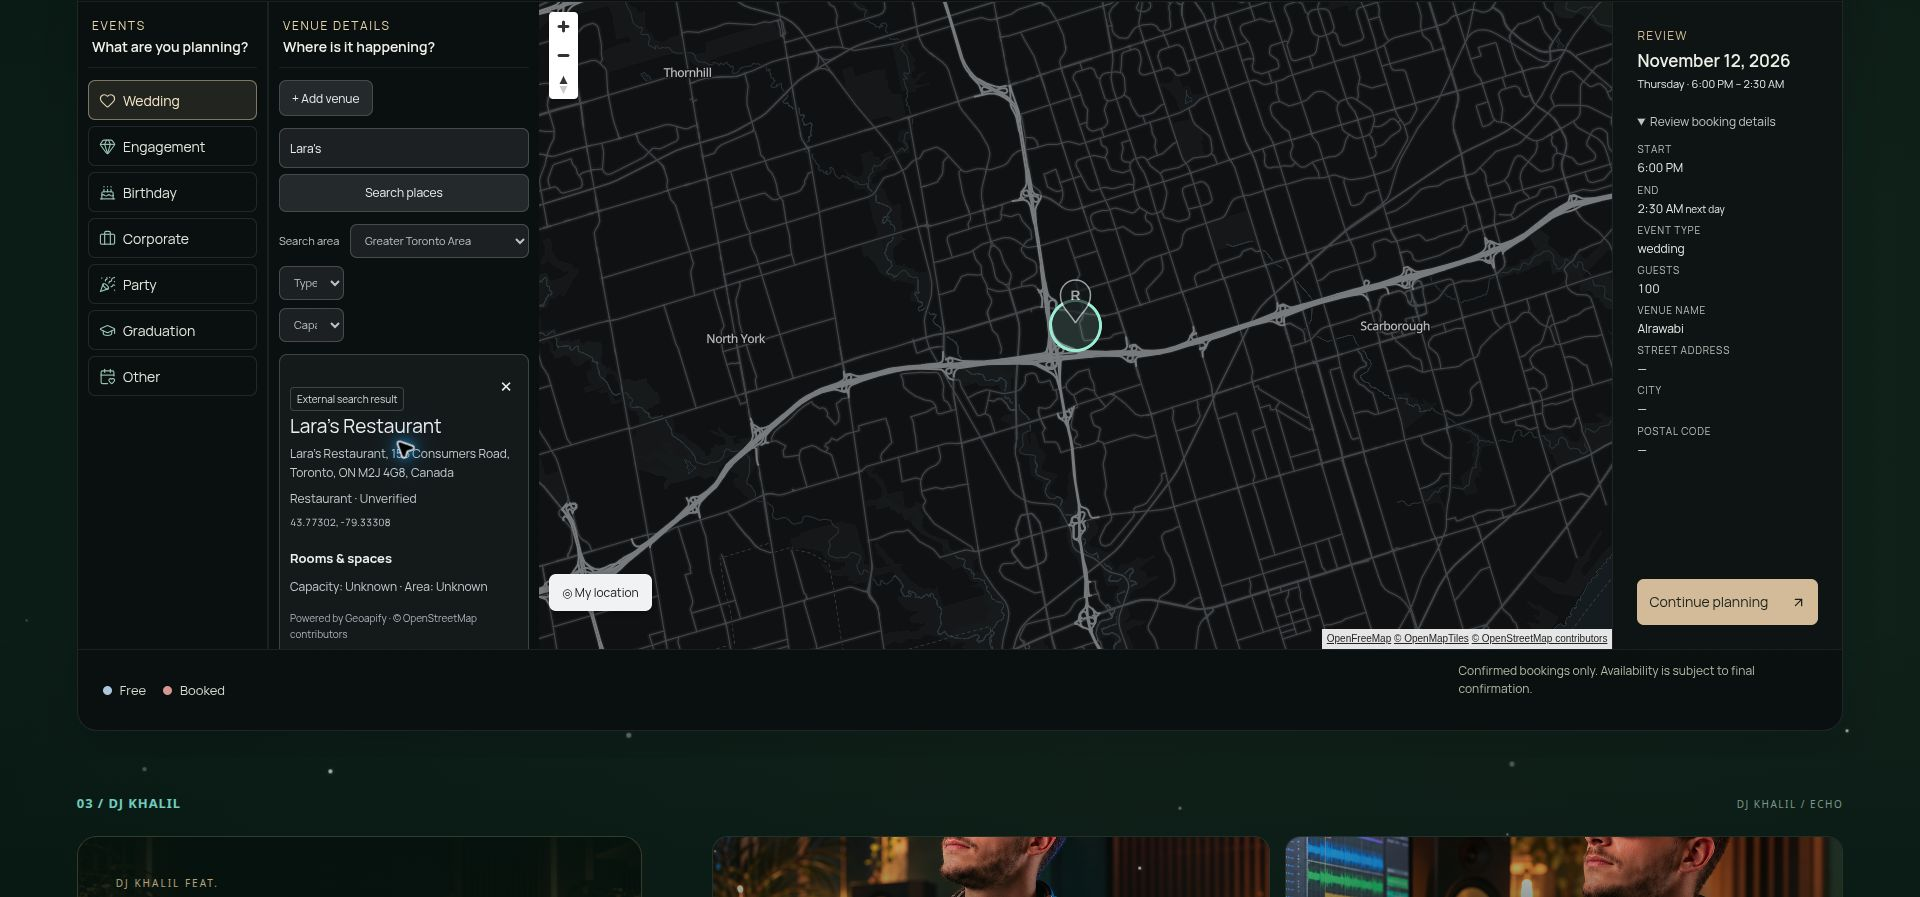
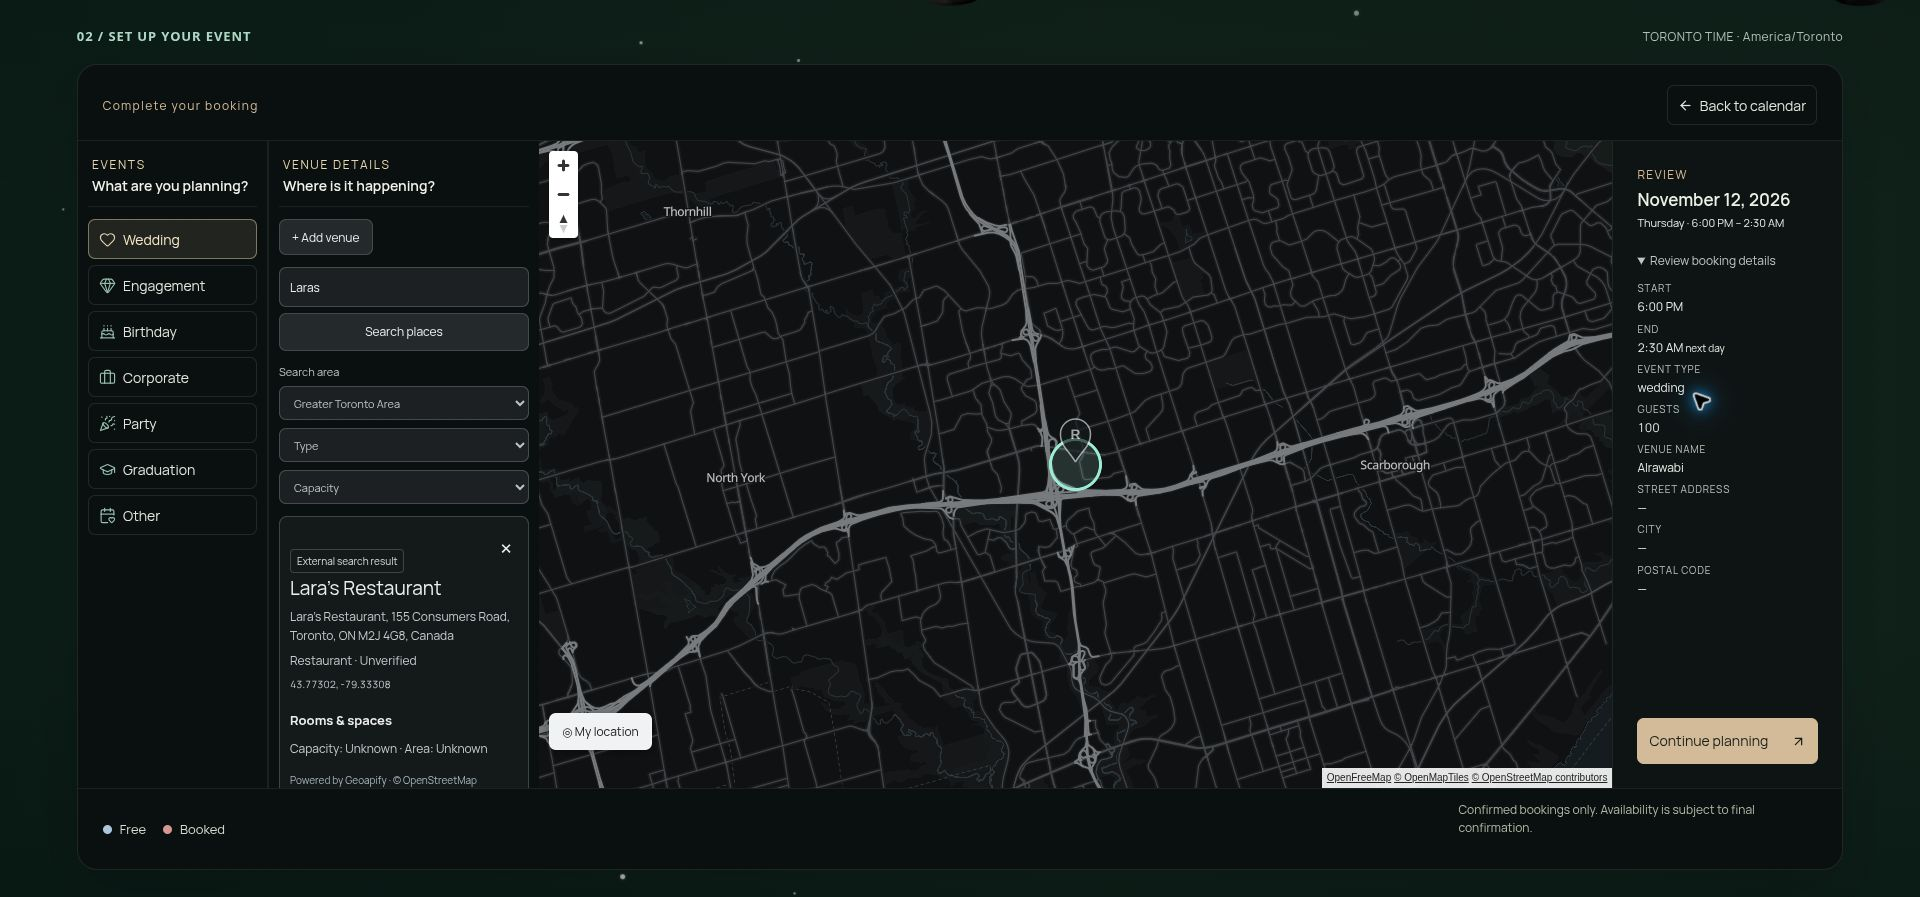
Record verified live Keg and apostrophe-free Lara venue searches

diff --git a/docs/VENUE-MAP.md b/docs/VENUE-MAP.md
@@ -69,4 +69,4 @@ Vite-specific integration: MapLibre 6 ships a separate worker. `VenueMapCanvas.j
 
 Layout follow-up: `.avail-venue` now contains the map component itself, retaining `.avail-venue-head` and omitting `.vm-toolbar`. Search, filters, results and the admin form stay in the left sidebar; the geographic canvas fills the right side without panel padding. The separate review column retains the date and Continue planning action. Below 760px, controls and map stack with no horizontal overflow. The former guest/address inputs in this panel were replaced as requested; booking details remain in the existing questionnaire.
 
-Flexible search: the server tries Geoapify named Places first (up to 30 candidates, 10 returned), then a bounded partial-name retry, then address/city geocoding when no business is found. A final autocomplete fallback handles partial names that exact geocoding misses. Articles, possessive apostrophes, case and accents are normalized for upstream names; saved directory search accepts partial words in any order and optional apostrophes. Up to four sequential provider calls share one 8-second deadline and one user search quota slot. Results retain provenance and unknown capacities. External results remain listed when outside the current viewport, and a completed search fits the map to returned locations. Provider coverage can still omit businesses; results are never invented.
+Flexible search: the server tries Geoapify named Places first (up to 30 candidates, 10 returned), then a bounded partial-name retry, then address/city geocoding when no business is found. An omitted possessive apostrophe gets an exact retry when needed; a final amenity-only autocomplete fallback handles partial business names without returning residential addresses. Articles, possessive apostrophes, case and accents are normalized for upstream names; saved directory search accepts partial words in any order and optional apostrophes. Up to five sequential provider calls share one 8-second deadline and one user search quota slot. Results retain provenance and unknown capacities. External results remain listed when outside the current viewport, and a completed search fits the map to returned locations. Provider coverage can still omit businesses; results are never invented.

diff --git a/docs/venue-map-verification/README.md b/docs/venue-map-verification/README.md
@@ -50,3 +50,5 @@ Moved the venue-map contents into `.avail-venue`, retained `.avail-venue-head`, 
 Business-name Places lookup now precedes address geocoding, with a bounded partial-name retry. Search defaults to the Greater Toronto Area instead of the zoomed viewport; This map view remains available. External results are no longer silently removed outside the old viewport, and the camera fits returned locations. A new search clears the previous selected result. Saved matching accepts partial/reordered words and optional possessive apostrophes.
 
 Live API `55fdd29` was independently confirmed as Render’s successfully deployed commit. Authenticated browser queries returned ten The Keg locations and Lara’s Restaurant at 155 Consumers Road, Toronto; Lara’s detail showed the real coordinates with capacity/area still Unknown. No venue or booking was saved. Additional apostrophe-omission hardening is in API `363874a`. All 56 frontend tests and 15 focused backend tests pass; lint/build pass with existing warnings. Regressions exercise named POIs, partial retries, straight/curly/omitted apostrophes, address fallback, bounding, provenance, quota and saved matching.
+
+Final live check: API `1020678` is Render’s successfully deployed commit. The exact input **Laras** (no apostrophe) now returns **Lara’s Restaurant, 155 Consumers Road**, and selecting its result opens the correct details. The final fallback retries omitted possessives before amenity-only autocomplete; residential autocomplete results are excluded from business-name suggestions. The production frontend bundle also contains the new Greater Toronto Area/Search area controls. No console warnings/errors observed. Final backend run: 15/15 pass. [Verified flexible lookup screenshot](flexible-laras-search.jpg).
